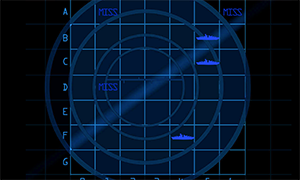
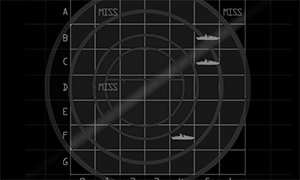
Images to grayscale
Link images are now grayscale

Changed region(s): [[0.15, 0.0, 0.84, 1.0]]

diff --git a/css/style.css b/css/style.css
@@ -169,7 +169,7 @@ section {
 /* Direction aware CSS */
 .da-thumbs li {
 	margin: 5px;
-	background: rgba(73, 73, 73, 0.3);
+	background: rgba(48, 48, 48, 0.55);
 	padding: 6px;
 	position: relative;
 	box-shadow: 0 1px 3px rgba(0,0,0,0.1);
@@ -184,7 +184,7 @@ section {
 }
 .da-thumbs li a div {
 	position: absolute;
-	background: rgba(55,55,55,0.7);
+	background: rgba(0,0,0,0.7);
 	width: 100%;
 	height: 100%;
 	color: #ffffff;
